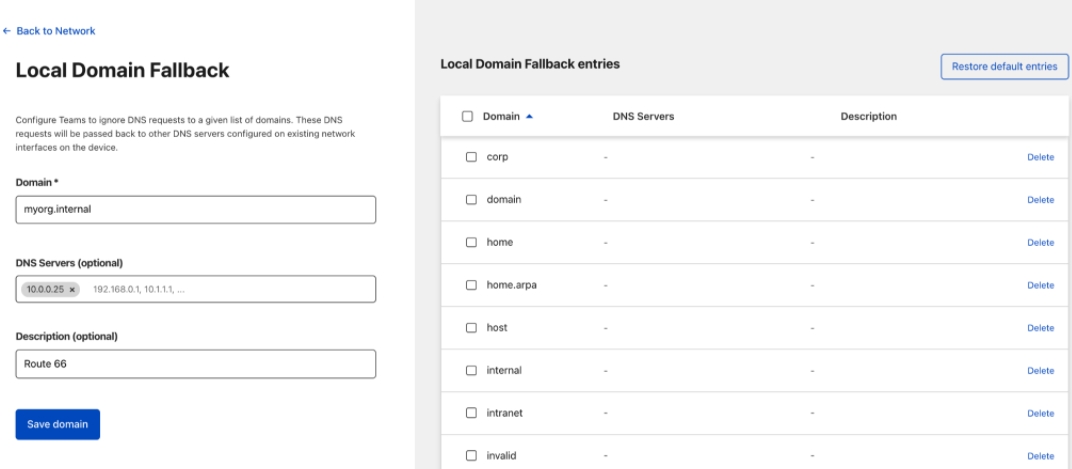
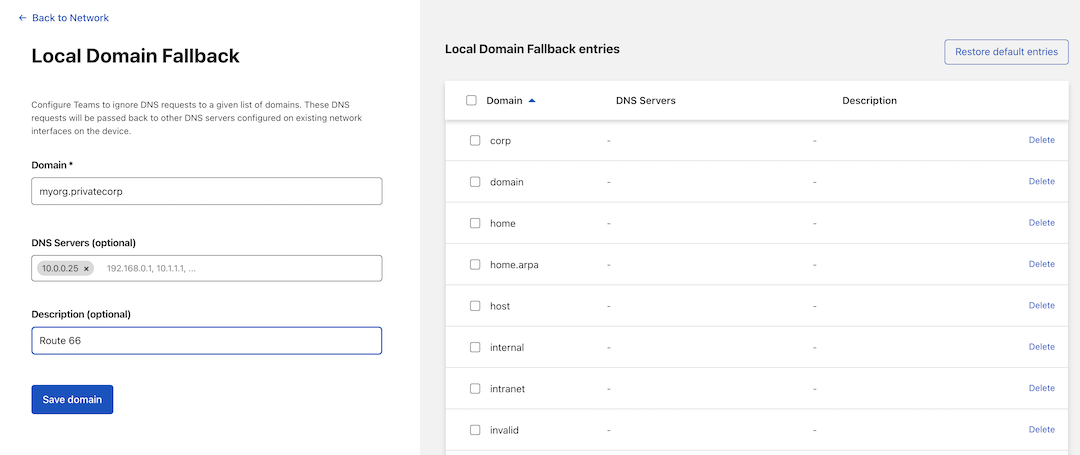
Improve the Private DNS tutorial (#3065)

diff --git a/products/cloudflare-one/src/content/tutorials/warp-to-tunnel-internal-dns.md b/products/cloudflare-one/src/content/tutorials/warp-to-tunnel-internal-dns.md
@@ -38,16 +38,16 @@ On the other side of this equation, your end users need to be able to easily con
 
     ![Enable UDP](../static/secure-origin-connections/warp-to-tunnel-internal-dns/enable-udp.png)
 
-## Create a local domain fallback entry
+## Create a Local Domain Fallback entry
 
 Next, we need to create a [Local Domain Fallback](/connections/connect-devices/warp/exclude-traffic/local-domains) entry.
 
-1. Remain in Network Settings and scroll further down to **Local Domain Fallback**.
+1. Remain in **Network Settings** and scroll further down to **Local Domain Fallback**.
 
     ![Manage Local Domains](../static/secure-origin-connections/warp-to-tunnel-internal-dns/manage-local-domain-fallback.png)
 
 2. Click **Manage**.
-3. Create a new Local Domain Fallback entry pointing to the internal DNS resolver. The rule in the following example instructs the WARP client to resolve all requests for `myorg.internal` through an internal resolver at `10.0.0.25` rather than attempting to resolve this publicly. 
+3. Create a new Local Domain Fallback entry pointing to the internal DNS resolver. The rule in the following example instructs the WARP client to resolve all requests for `myorg.privatecorp` through an internal resolver at `10.0.0.25` rather than attempting to resolve this publicly. 
 
 ![Create Local Domains](../static/secure-origin-connections/warp-to-tunnel-internal-dns/create-local-domain-fallback.png)
 
@@ -69,24 +69,36 @@ You can now resolve requests through the internal DNS server you set up in your 
 
 ## Test the setup
 
-For testing, run a `dig` command for the internal DNS service. Here is an example for a Private DNS Resolver listening on a Private IP `10.0.0.25` and on Port 1053, for a private domain to be resolved: 
+For testing, run a `dig` command for the internal DNS service: 
 
 ```sh
-$ dig @10.0.0.25 -p 1053 AAAA www.myorg.internal
+$ dig AAAA www.myorg.privatecorp
 ```
 
-The `dig` will fail if the WARP client is disabled in your end user's device.
+The `dig` will work because `myorg.privatecorp` was configured above as a fallback domain. If you skip that step, you can still force `dig` to use your private DNS resolver:
+
+```sh
+$ dig @10.0.0.25 AAAA www.myorg.privatecorp
+```
+
+Both `dig` commands will fail if the WARP client is disabled in your end user's device.
 
 ## Troubleshooting
 
+Use the following troubleshooting strategies if you are running into issues while configuring your private network with Cloudflare Tunnel.
+
 * Ensure that `cloudflared` is connected to Cloudflare by visiting Access > Tunnels in the Cloudflare for Teams dashboard.
 
-* Ensure that end-user devices are enrolled into WARP by visiting https://help.teams.cloudflare.com
+* Ensure that `cloudflared` is running with `quic` protocol (search for `Initial protocol quic` in its logs).
 
 * Ensure that the machine where `cloudflared` is running is allowed to egress via UDP to port 7844 to talk out to Cloudflare.
 
-* Double check the precedence of your Application policies in the Gateway Network policies tab. Ensure that a more global Block or Allow policy will not supercede the application policies
+* Ensure that end-user devices are enrolled into WARP by visiting https://help.teams.cloudflare.com
 
-* Ensure your Private DNS resolver is available over a routable private IP address
+* Double-check the precedence of your application policies in the Gateway Network policies tab. Ensure that a more global Block or Allow policy will not supersede the application policies.
 
-* Ensure requests to a private IP or hostname are arriving to Tunnel by viewing requests in the Gateway Network Logs.
+* Check the Gateway Audit Logs Network tab to see whether your UDP DNS resolutions are being allowed or blocked.
+
+* Ensure that your Private DNS resolver is available over a routable private IP address. You can check that by trying the `dig` commands on your machine running `cloudflared`.
+
+* Check your set up by using `dig ... +tcp` to force the DNS resolution to use TCP instead of UDP.
